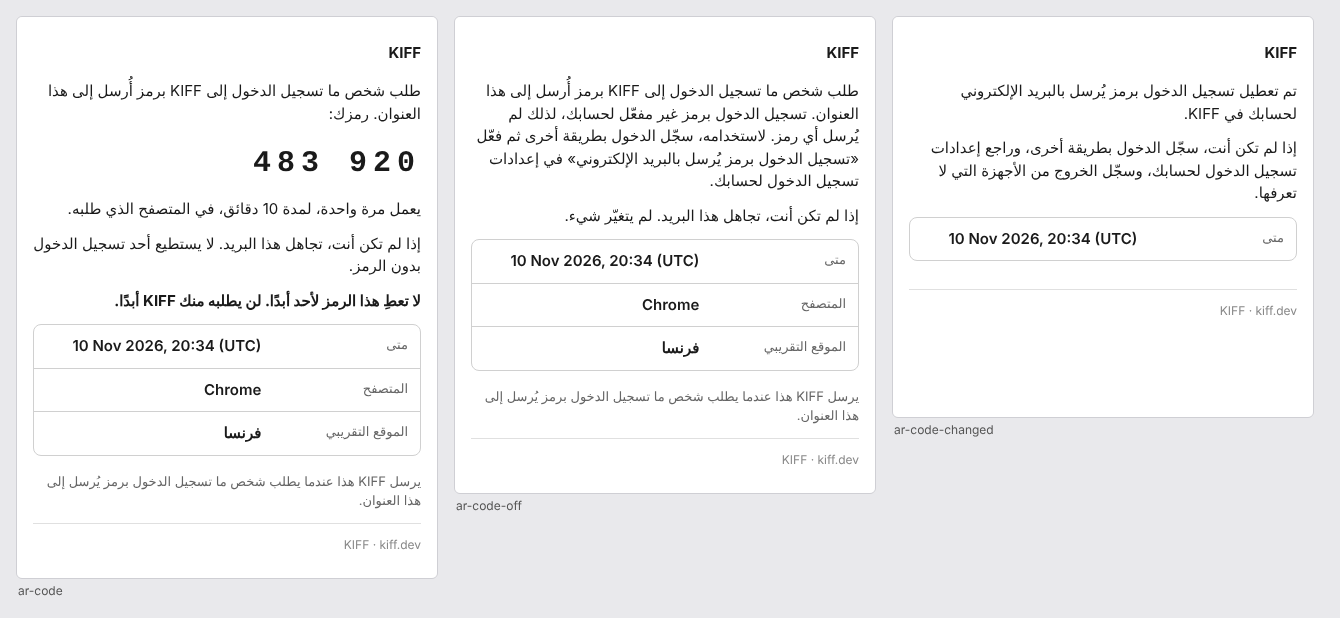
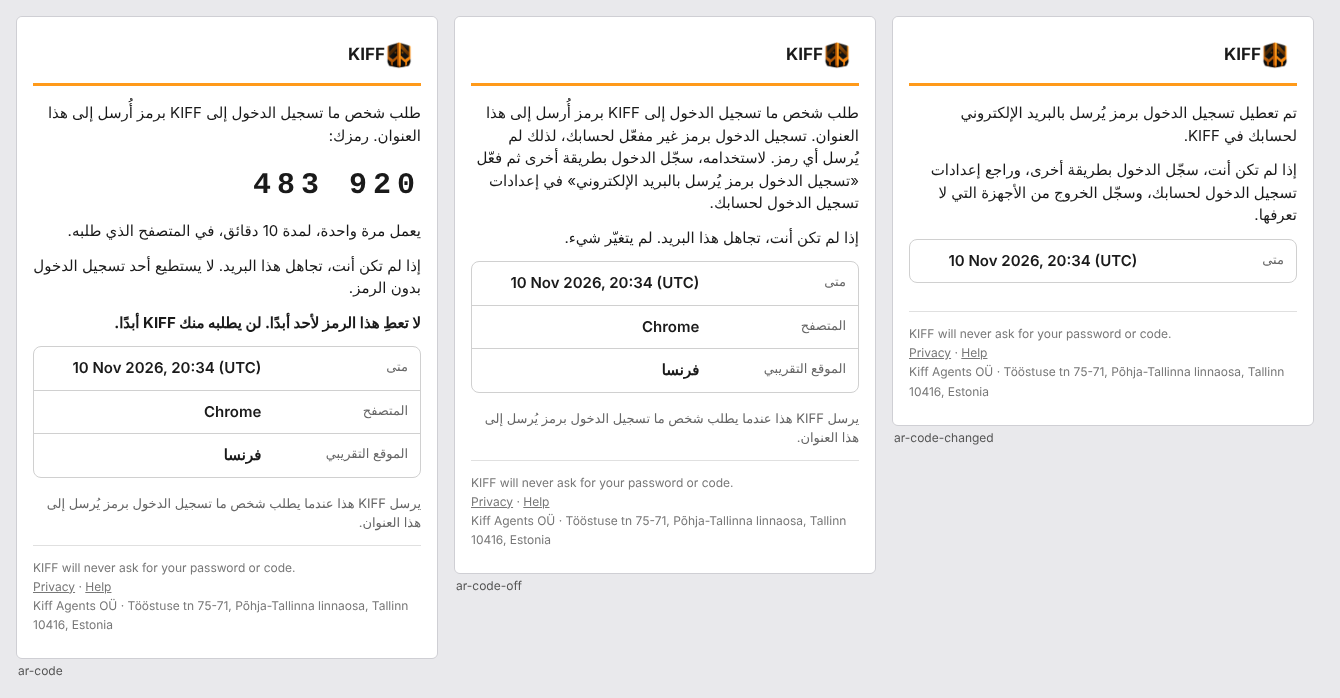
Email: the KIFF mark and one amber rule on every header, a mandatory footer
Every email has the same header: the KIFF mark at one size, hosted on kiff.dev,
beside the name, and one amber rule (kiff.dev's own --k-amber); the first button
is amber with dark text. Every email ends with the same footer: KIFF will never
ask for your password or code, the Privacy and Help links, and Kiff Agents OÜ with
its registered address. The footer's lines are words.EmailFooter (English until a
language writes them; the layout sets an English footer left to right inside a
right-to-left email). New sheets in en, fr and ar.

Claude-Session: https://claude.ai/code/session_01LFVxsvGiUh3GdVR2hfLXAk

diff --git a/api/internal/notify/layout.go b/api/internal/notify/layout.go
@@ -3,6 +3,7 @@ package notify
 import (
 	"bytes"
 	htmltemplate "html/template"
+	"strings"
 
 	"github.com/kiff/cloud/api/internal/words"
 )
@@ -26,10 +27,11 @@ type mail struct {
 	Lang words.Lang
 	// Title is the subject, as the page's <title>.
 	Title string
-	// Brand is the wordmark: "KIFF", or "tafs by KIFF"; Logos are drawn
-	// before it (absolute URLs), none when empty.
+	// Brand is the wordmark: "KIFF", or "tafs by KIFF". Site is kiff.dev,
+	// where the logo, the Privacy page and Help are; the KIFF mark is always
+	// drawn before the brand, the tafs mark before it for tafs by KIFF.
 	Brand string
-	Logos []string
+	Site  string
 	// Lead is the sentence the email opens with; LeadHTML replaces it when
 	// the caller built it with markup and escaped every part.
 	Lead     string
@@ -60,10 +62,27 @@ func rtl(l words.Lang) bool {
 	return false
 }
 
+// The company and its registered address, as the Privacy page gives them. They
+// are the same in every language.
+const (
+	companyName    = "Kiff Agents OÜ"
+	companyAddress = "Tööstuse tn 75-71, Põhja-Tallinna linnaosa, Tallinn 10416, Estonia"
+	defaultSite    = "https://kiff.dev"
+	// brandAmber is KIFF's own amber (kiff.dev's --k-amber): the header's rule and
+	// the button to press. Dark text sits on it, never white.
+	brandAmber = "#ff9a1a"
+)
+
 type layoutView struct {
 	mail
-	Dir, LangTag string
-	Align        string
+	Dir, LangTag, Align string
+	Logos               []string
+	Footer              words.EmailFooter
+	FooterDir           string
+	FooterAlign         string
+	PrivacyURL, HelpURL string
+	Company, Address    string
+	Amber               string
 }
 
 // layout draws m as the HTML part of an email: tables and inline styles, no
@@ -72,7 +91,8 @@ var layout = htmltemplate.Must(htmltemplate.New("layout").Parse(`<!doctype html>
 <body style="margin:0;padding:0">
 <table role="presentation" width="100%" cellpadding="0" cellspacing="0" border="0"><tr><td style="padding:24px 16px;font-family:system-ui,-apple-system,Segoe UI,Roboto,Helvetica,Arial,sans-serif;font-size:15px;line-height:1.5;color:#1a1a1a;text-align:{{.Align}}">
 <table role="presentation" width="100%" cellpadding="0" cellspacing="0" border="0" style="max-width:560px">
-<tr><td style="padding:0 0 16px;text-align:{{.Align}}">{{range .Logos}}<img src="{{.}}" alt="" width="24" height="24" style="vertical-align:middle;margin:0 6px">{{end}}<strong style="vertical-align:middle">{{.Brand}}</strong></td></tr>
+<tr><td style="padding:0 0 14px;border-bottom:3px solid {{.Amber}};text-align:{{.Align}}">{{range .Logos}}<img src="{{.}}" alt="" width="28" height="28" style="vertical-align:middle;margin:0 8px 0 0">{{end}}<strong style="vertical-align:middle;font-size:17px">{{.Brand}}</strong></td></tr>
+<tr><td style="padding:16px 0 0"></td></tr>
 <tr><td style="padding:0 0 12px;text-align:{{.Align}}">{{if .LeadHTML}}{{.LeadHTML}}{{else}}{{.Lead}}{{end}}</td></tr>{{if .Code}}
 <tr><td dir="ltr" style="padding:4px 0 12px;font-family:ui-monospace,Menlo,Consolas,monospace;font-size:30px;font-weight:700;letter-spacing:6px;text-align:{{.Align}}">{{.Code}}</td></tr>{{end}}{{range .Paras}}
 <tr><td style="padding:0 0 12px;text-align:{{$.Align}}">{{.}}</td></tr>{{end}}{{if .Warn}}
@@ -82,23 +102,44 @@ var layout = htmltemplate.Must(htmltemplate.New("layout").Parse(`<!doctype html>
 {{range $i, $r := .Rows}}<tr><td width="38%" style="padding:10px 12px;{{if $i}}border-top:1px solid #d0d0d0;{{end}}color:#666666;font-size:13px;vertical-align:top;text-align:{{$.Align}}">{{$r.Label}}</td><td style="padding:10px 12px;{{if $i}}border-top:1px solid #d0d0d0;{{end}}font-weight:600;vertical-align:top;text-align:{{$.Align}}"><bdi>{{$r.Value}}</bdi></td></tr>
 {{end}}</table>{{if .Note}}
 <p style="margin:8px 0 0;color:#666666;font-size:13px;text-align:{{.Align}}">{{.Note}}</p>{{end}}</td></tr>{{end}}{{if .Buttons}}
-<tr><td style="padding:0 0 16px;text-align:{{.Align}}">{{range $i, $b := .Buttons}}<a href="{{$b.URL}}" style="display:inline-block;margin:0 8px 8px 0;padding:9px 16px;border:1px solid #1a1a1a;border-radius:6px;{{if $i}}color:#1a1a1a;{{else}}background:#1a1a1a;color:#ffffff;{{end}}text-decoration:none">{{$b.Label}}</a>{{end}}</td></tr>{{end}}{{range .Small}}
+<tr><td style="padding:0 0 16px;text-align:{{.Align}}">{{range $i, $b := .Buttons}}<a href="{{$b.URL}}" style="display:inline-block;margin:0 8px 8px 0;padding:9px 16px;border:1px solid #1a1a1a;border-radius:6px;{{if $i}}color:#1a1a1a;{{else}}background:{{$.Amber}};border-color:{{$.Amber}};color:#1a1a1a;font-weight:600;{{end}}text-decoration:none">{{$b.Label}}</a>{{end}}</td></tr>{{end}}{{range .Small}}
 <tr><td style="padding:0 0 12px;color:#666666;font-size:13px;text-align:{{$.Align}}">{{.}}</td></tr>{{end}}
-<tr><td style="padding:12px 0 0;border-top:1px solid #e0e0e0;color:#888888;font-size:12px;text-align:{{.Align}}">{{.Brand}} · kiff.dev</td></tr>
+<tr><td dir="{{.FooterDir}}" style="padding:12px 0 0;border-top:1px solid #e0e0e0;color:#777777;font-size:12px;line-height:1.6;text-align:{{.FooterAlign}}">{{.Footer.NeverAsk}}<br><a href="{{.PrivacyURL}}" style="color:#777777">{{.Footer.Privacy}}</a> · <a href="{{.HelpURL}}" style="color:#777777">{{.Footer.Help}}</a><br>{{.Company}} · {{.Address}}</td></tr>
 </table></td></tr></table>
 </body></html>`))
 
 // renderLayout is m as an email's HTML.
 func renderLayout(m mail) (string, error) {
-	v := layoutView{mail: m, Dir: "ltr", LangTag: string(m.Lang), Align: "left"}
+	v := layoutView{mail: m, Dir: "ltr", LangTag: string(m.Lang), Align: "left", Amber: brandAmber,
+		Company: companyName, Address: companyAddress}
 	if v.LangTag == "" {
 		v.LangTag = string(words.EN)
 	}
 	if v.Brand == "" {
 		v.Brand = "KIFF"
 	}
+	site := strings.TrimRight(m.Site, "/")
+	if site == "" {
+		site = defaultSite
+	}
+	// The same mark, the same size, on every email; tafs by KIFF has its own first.
+	if v.Brand == TafsByKIFF {
+		v.Logos = append(v.Logos, site+"/static/img/tafs/tafs-icon-512.png")
+	}
+	v.Logos = append(v.Logos, site+"/static/img/logo/kiff-logo-transparent-512.png")
+	privacy := "/privacy"
+	if v.Brand == TafsByKIFF {
+		privacy = "/tafs/privacy"
+	}
+	v.PrivacyURL, v.HelpURL = site+privacy, site+"/support"
+	var own bool
+	v.Footer, own = words.EmailFooterFor(m.Lang)
+	v.FooterDir, v.FooterAlign = "ltr", "left"
 	if rtl(m.Lang) {
 		v.Dir, v.Align = "rtl", "right"
+		if own {
+			v.FooterDir, v.FooterAlign = "rtl", "right"
+		}
 	}
 	var b bytes.Buffer
 	if err := layout.Execute(&b, v); err != nil {

diff --git a/api/internal/notify/layout_test.go b/api/internal/notify/layout_test.go
@@ -19,7 +19,7 @@ func TestTheLayoutEscapesEveryPart(t *testing.T) {
 	const evil = `<script>alert(1)</script>"><img src=x>`
 	page, err := renderLayout(mail{Lang: words.EN, Title: evil, Brand: evil, Lead: evil, Code: evil, Paras: []string{evil}, Warn: evil,
 		List: []string{evil}, Rows: []newDeviceRow{{Label: evil, Value: evil}}, Note: evil,
-		Buttons: []mailButton{{Label: evil, URL: `https://kiff.dev/x?a="><script>`}}, Small: []string{evil}, Logos: []string{`https://kiff.dev/"><i>`}})
+		Buttons: []mailButton{{Label: evil, URL: `https://kiff.dev/x?a="><script>`}}, Small: []string{evil}, Site: `https://kiff.dev/"><i>`})
 	if err != nil {
 		t.Fatal(err)
 	}
@@ -64,15 +64,11 @@ func TestTheLayoutHasOnePrimaryButtonAndOneFooter(t *testing.T) {
 	if err != nil {
 		t.Fatal(err)
 	}
-	if n := strings.Count(page, "background:#1a1a1a;color:#ffffff"); n != 1 {
+	if n := strings.Count(page, "background:"+brandAmber); n != 1 {
 		t.Errorf("%d primary buttons, want 1", n)
 	}
-	if !strings.Contains(page, "KIFF · kiff.dev") || strings.Contains(page, "KIFF Operations") {
-		t.Errorf("the footer is KIFF · kiff.dev: %s", page)
-	}
-	tafs, _ := renderLayout(mail{Lang: words.EN, Brand: TafsByKIFF, Lead: "x"})
-	if !strings.Contains(tafs, TafsByKIFF+" · kiff.dev") {
-		t.Errorf("the tafs brand is the footer's too")
+	if strings.Contains(page, "color:#ffffff") {
+		t.Errorf("the button's text is dark on the amber, never white")
 	}
 }
 
@@ -125,7 +121,7 @@ func TestEveryEmailIsOnTheLayoutAndSaysAccount(t *testing.T) {
 		if e.From != "KIFF <hello@kiff.dev>" || e.ReplyTo != "support@kiff.dev" {
 			t.Errorf("%s: from %q reply-to %q", name, e.From, e.ReplyTo)
 		}
-		if !strings.Contains(e.HTML, ` · kiff.dev</td>`) || !strings.Contains(e.HTML, `<html lang="en" dir="ltr">`) {
+		if !strings.Contains(e.HTML, companyName+" · "+companyAddress) || !strings.Contains(e.HTML, `<html lang="en" dir="ltr">`) {
 			t.Errorf("%s: not drawn by the layout: %s", name, e.HTML)
 		}
 		if !strings.Contains(e.HTML, "<title>"+htmlEscape(e.Subject)+"</title>") {
@@ -186,5 +182,57 @@ func TestTheLayoutIsolatesEachRowsValue(t *testing.T) {
 	}
 	if !strings.Contains(page, "<bdi>10 Nov 2026, 20:34 (UTC)</bdi>") {
 		t.Errorf("the value is not isolated: %s", page)
+	}
+}
+
+// Every email has the same header, the same footer, in the same order: the KIFF mark at
+// the same size and hosted on kiff.dev, one amber rule, then at the end the never-ask
+// line, the Privacy and Help links, and the company with its registered address.
+func TestEveryEmailHasTheSameHeaderAndFooter(t *testing.T) {
+	for _, brand := range []string{"KIFF", TafsByKIFF} {
+		page, err := renderLayout(mail{Lang: words.EN, Brand: brand, Lead: "x"})
+		if err != nil {
+			t.Fatal(err)
+		}
+		if n := strings.Count(page, `width="28" height="28"`); (brand == "KIFF" && n != 1) || (brand == TafsByKIFF && n != 2) {
+			t.Errorf("%s: %d logos at the one size", brand, n)
+		}
+		for _, want := range []string{
+			`src="https://kiff.dev/static/img/logo/kiff-logo-transparent-512.png"`,
+			"border-bottom:3px solid " + brandAmber,
+			"KIFF will never ask for your password or code.",
+			`>Privacy</a>`, `>Help</a>`, "Kiff Agents OÜ", "Tööstuse tn 75-71, Põhja-Tallinna linnaosa, Tallinn 10416, Estonia",
+		} {
+			if !strings.Contains(page, want) {
+				t.Errorf("%s: the page lacks %q", brand, want)
+			}
+		}
+		if (brand == TafsByKIFF) != strings.Contains(page, "/static/img/tafs/tafs-icon-512.png") {
+			t.Errorf("%s: the tafs mark is for tafs by KIFF alone", brand)
+		}
+		if (brand == TafsByKIFF) != strings.Contains(page, `href="https://kiff.dev/tafs/privacy"`) {
+			t.Errorf("%s: tafs by KIFF links the tafs Privacy page, KIFF its own", brand)
+		}
+		if brand == "KIFF" && !strings.Contains(page, `href="https://kiff.dev/privacy"`) || !strings.Contains(page, `href="https://kiff.dev/support"`) {
+			t.Errorf("%s: the Privacy and Help links", brand)
+		}
+		if strings.Index(page, "kiff-logo-transparent") > strings.Index(page, "KIFF will never ask") {
+			t.Errorf("%s: the header comes before the footer", brand)
+		}
+	}
+}
+
+// The footer is in the email's language when that language has its footer; when it hasn't,
+// English reads left to right, never inside a right-to-left line.
+func TestTheFooterIsLeftToRightUntilItsLanguageIsWritten(t *testing.T) {
+	page, _ := renderLayout(mail{Lang: "ar", Lead: "x"})
+	if !strings.Contains(page, `<td dir="ltr" style="padding:12px 0 0;border-top`) {
+		t.Errorf("an Arabic email with the English footer sets it left to right: %s", page)
+	}
+	words.EmailFooters["ar"] = words.EmailFooter{Privacy: "p", Help: "h", NeverAsk: "n"}
+	defer delete(words.EmailFooters, "ar")
+	page, _ = renderLayout(mail{Lang: "ar", Lead: "x"})
+	if !strings.Contains(page, `<td dir="rtl" style="padding:12px 0 0;border-top`) || !strings.Contains(page, ">n<br>") {
+		t.Errorf("an Arabic footer is right to left: %s", page)
 	}
 }

diff --git a/api/internal/notify/new_device.go b/api/internal/notify/new_device.go
@@ -60,7 +60,7 @@ type newDeviceRow struct{ Label, Value, Line string }
 type newDeviceView struct {
 	SessionsURL                                    string
 	Subject, Intro, PlaceNote, WasYou, NotYou, Why string
-	Sessions, Brand, KIFFLogo, TafsLogo            string
+	Sessions, Brand                                string
 	Rows                                           []newDeviceRow
 }
 
@@ -120,13 +120,11 @@ func (d NewDevice) place() string {
 
 func newNewDeviceView(d NewDevice) newDeviceView {
 	w := words.Of(d.Lang)
-	site := strings.TrimRight(d.SiteURL, "/")
 	v := newDeviceView{SessionsURL: d.SessionsURL, Subject: w.NewDeviceSubject, Intro: w.NewDeviceIntro,
 		WasYou: w.NewDeviceWasYou, NotYou: w.NewDeviceNotYouSignOut, Sessions: w.NewDeviceSessions, Why: w.NewDeviceWhy,
-		Brand: "KIFF", KIFFLogo: site + "/static/img/logo/kiff-logo-transparent-512.png"}
+		Brand: "KIFF"}
 	if d.Tafs {
 		v.Subject, v.Intro, v.Brand = w.NewDeviceSubjectTafs, w.NewDeviceIntroTafs, TafsByKIFF
-		v.TafsLogo = site + "/static/img/tafs/tafs-icon-512.png"
 	}
 	if d.Password {
 		v.NotYou = w.NewDeviceNotYou
@@ -177,18 +175,13 @@ var newDeviceText = texttemplate.Must(texttemplate.New("new-device").Parse(`{{.I
 — {{.Brand}}
 `))
 
-// newDeviceMail is the email on the shared layout (layout.go): the tafs
-// logo, when there is one, before KIFF's.
-func newDeviceMail(v newDeviceView, lang words.Lang) mail {
-	m := mail{Lang: lang, Brand: v.Brand, Lead: v.Intro, Rows: v.Rows, Note: v.PlaceNote,
+// newDeviceMail is the email on the shared layout (layout.go); the layout draws
+// the logos.
+func newDeviceMail(v newDeviceView, lang words.Lang, site string) mail {
+	return mail{Lang: lang, Brand: v.Brand, Site: site, Lead: v.Intro, Rows: v.Rows, Note: v.PlaceNote,
 		Paras:   []string{v.WasYou, v.NotYou},
 		Buttons: []mailButton{{Label: v.Sessions, URL: v.SessionsURL}},
 		Small:   []string{v.Why}}
-	if v.TafsLogo != "" {
-		m.Logos = append(m.Logos, v.TafsLogo)
-	}
-	m.Logos = append(m.Logos, v.KIFFLogo)
-	return m
 }
 
 // renderNewDevice returns the subject, text and HTML of a new-device email.
@@ -201,7 +194,7 @@ func renderNewDevice(d NewDevice) (subject, text, html string, err error) {
 	if err := newDeviceText.Execute(&t, v); err != nil {
 		return "", "", "", err
 	}
-	m := newDeviceMail(v, d.Lang)
+	m := newDeviceMail(v, d.Lang, d.SiteURL)
 	m.Title = v.Subject
 	page, err := renderLayout(m)
 	if err != nil {

diff --git a/api/internal/words/email_footer.go b/api/internal/words/email_footer.go
@@ -1,0 +1,38 @@
+package words
+
+// EmailFooter is the three lines every KIFF email ends with, beside the
+// company's name and address (which are not translated): where to read the
+// Privacy page, where to get help, and that KIFF never asks for a password or a
+// code. The footer is mandatory on every email (docs/email.md).
+//
+// English is the source. EmailFooters holds the other languages, keyed by the
+// primary language tag, as legal-i18n writes them; a language with no entry reads
+// English, and the layout then sets the footer left to right whatever the email's
+// own direction is, so English never sits in a right-to-left line.
+type EmailFooter struct {
+	// Privacy and Help are the names of the two links.
+	Privacy, Help string
+	// NeverAsk is the sentence: KIFF will never ask for your password or code.
+	NeverAsk string
+}
+
+var emailFooterEN = EmailFooter{
+	Privacy:  "Privacy",
+	Help:     "Help",
+	NeverAsk: "KIFF will never ask for your password or code.",
+}
+
+// EmailFooters are the other languages' footers, by primary language tag.
+var EmailFooters = map[string]EmailFooter{}
+
+// EmailFooterFor is the footer's lines in lang, and whether lang has its own
+// (false: English, for a language not written yet).
+func EmailFooterFor(lang Lang) (EmailFooter, bool) {
+	if lang == EN || lang == "" {
+		return emailFooterEN, true
+	}
+	if f, ok := EmailFooters[string(lang)]; ok {
+		return f, true
+	}
+	return emailFooterEN, false
+}

diff --git a/api/internal/notify/new_device_test.go b/api/internal/notify/new_device_test.go
@@ -118,7 +118,8 @@ func TestNewDeviceEmailLeavesOutWhatIsntKnown(t *testing.T) {
 	if err != nil {
 		t.Fatal(err)
 	}
-	if !strings.Contains(text, "Sign-in method: Google") || strings.Contains(text, "password") || strings.Contains(html, "password") ||
+	if !strings.Contains(text, "Sign-in method: Google") || strings.Contains(text, "password") ||
+		strings.Contains(strings.ReplaceAll(html, "KIFF will never ask for your password or code.", ""), "password") ||
 		!strings.Contains(text, en.NewDeviceNotYouSignOut) {
 		t.Errorf("Google:\n%s", text)
 	}

diff --git a/api/internal/notify/held_test.go b/api/internal/notify/held_test.go
@@ -70,7 +70,7 @@ func TestHeldEmailEscapesWhatTheAgentChose(t *testing.T) {
 	if err != nil {
 		t.Fatal(err)
 	}
-	if strings.Contains(html, "<script>") || strings.Contains(html, "<img") {
+	if strings.Contains(html, "<script>") || strings.Contains(html, "<img src=x") {
 		t.Fatalf("unescaped agent input:\n%s", html)
 	}
 	h.ReviewURL = ""

diff --git a/docs/email.md b/docs/email.md
@@ -6,7 +6,7 @@ Every email KIFF sends is drawn by one layout (`api/internal/notify/layout.go`) 
 
 From **KIFF `<hello@kiff.dev>`**, reply-to `support@kiff.dev`. (Both are set in `api/cmd/api/main.go`; `KIFF_NOTIFY_FROM` and `KIFF_NOTIFY_REPLY_TO` override them.) The mail's own name is the brand: "KIFF", or "tafs by KIFF" for a sign-in through the tafs app.
 
-One column, 560 px at most, tables and inline styles, no script, no web font, no tracking. In order, and each part is optional:
+One column, 560 px at most, tables and inline styles, no script, no web font, no tracking. **The header is the same on every email:** the KIFF mark (28 px, hosted on kiff.dev, `static/img/logo/kiff-logo-transparent-512.png`; tafs by KIFF has the tafs mark before it) next to the name, and **one amber rule** under it. The amber is kiff.dev's own (`--k-amber`, `#ff9a1a`); it is also the button to press, with dark text on it, never white. **The footer is mandatory on every email**, in this order: "KIFF will never ask for your password or code.", the Privacy and Help links (tafs by KIFF links the tafs Privacy page), and Kiff Agents OÜ with its registered address. In order, and each part is optional:
 
 | Part | What it is |
 |---|---|
@@ -20,7 +20,7 @@ One column, 560 px at most, tables and inline styles, no script, no web font, no
 | Note | a small line under the table |
 | Buttons | links drawn as buttons; **the first is the one to press**, the rest are outlines |
 | Small print | why you got this, what to do if it wasn't you |
-| Footer | `KIFF · kiff.dev`, always |
+| Footer | never-ask line, Privacy and Help, the company and its address: always |
 
 Screenshots, in English, French and Arabic (`docs/email/sheet-en.png`, `sheet-fr.png`, `sheet-ar.png`). The Arabic sheet shows the three code sign-in emails, the only ones written in Arabic today; its dates are still English (see "Languages").
 
@@ -44,7 +44,7 @@ Today:
 - **new device, invitations, account notices, held action and the Card budget warning** are written in the eight; any other language reads English, because the person's language is read as one of the eight (`words.Parse`);
 - **suspended, reactivated and support-ticket update** (`words.AccountEmail`) read English until a language has its lines in `words.AccountEmails`.
 
-The decision is **every email in every shipped language**. What that needs besides the translations is the person's full language tag, not one of the eight, carried to the email, and a table of the other languages' lines for each email as the code emails have. Until then a language without lines reads English, never a half-written email.
+The footer's three lines are in `words.EmailFooters`; a language without them reads English, and the layout then sets the footer left to right whatever the email's direction is. The decision is **every email in every shipped language**. What that needs besides the translations is the person's full language tag, not one of the eight, carried to the email, and a table of the other languages' lines for each email as the code emails have. Until then a language without lines reads English, never a half-written email.
 
 ## Adding or changing an email
 
